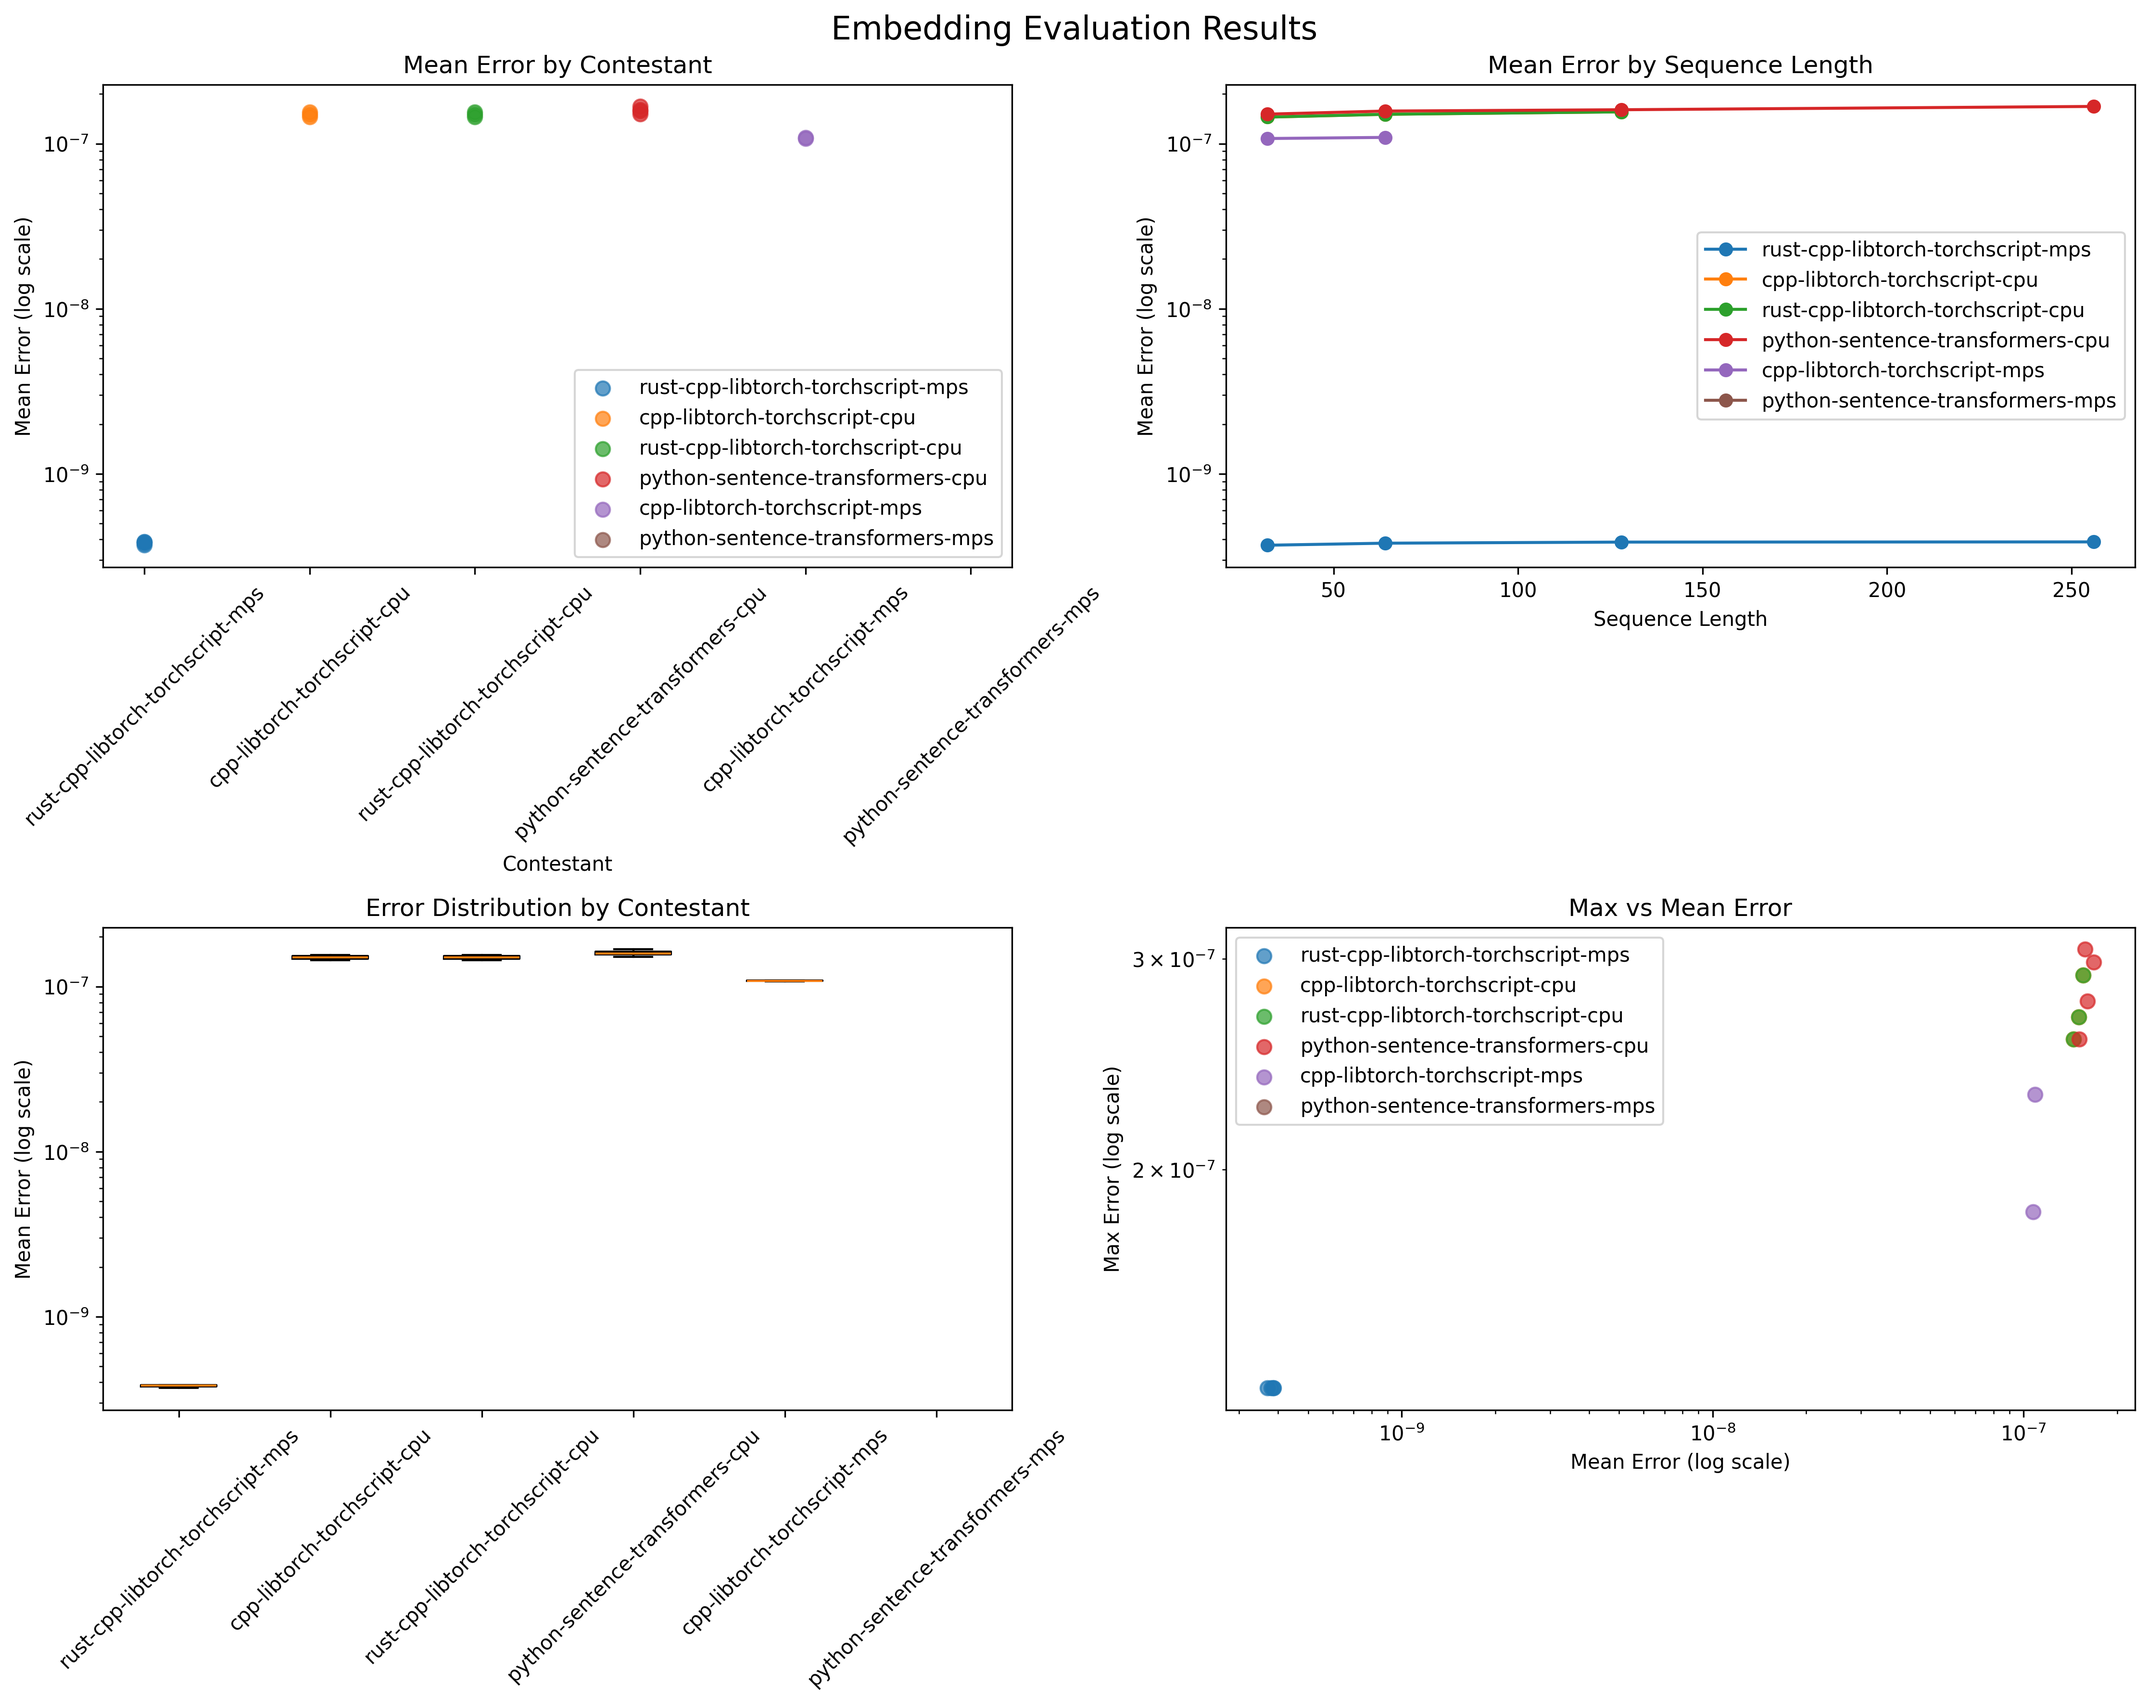
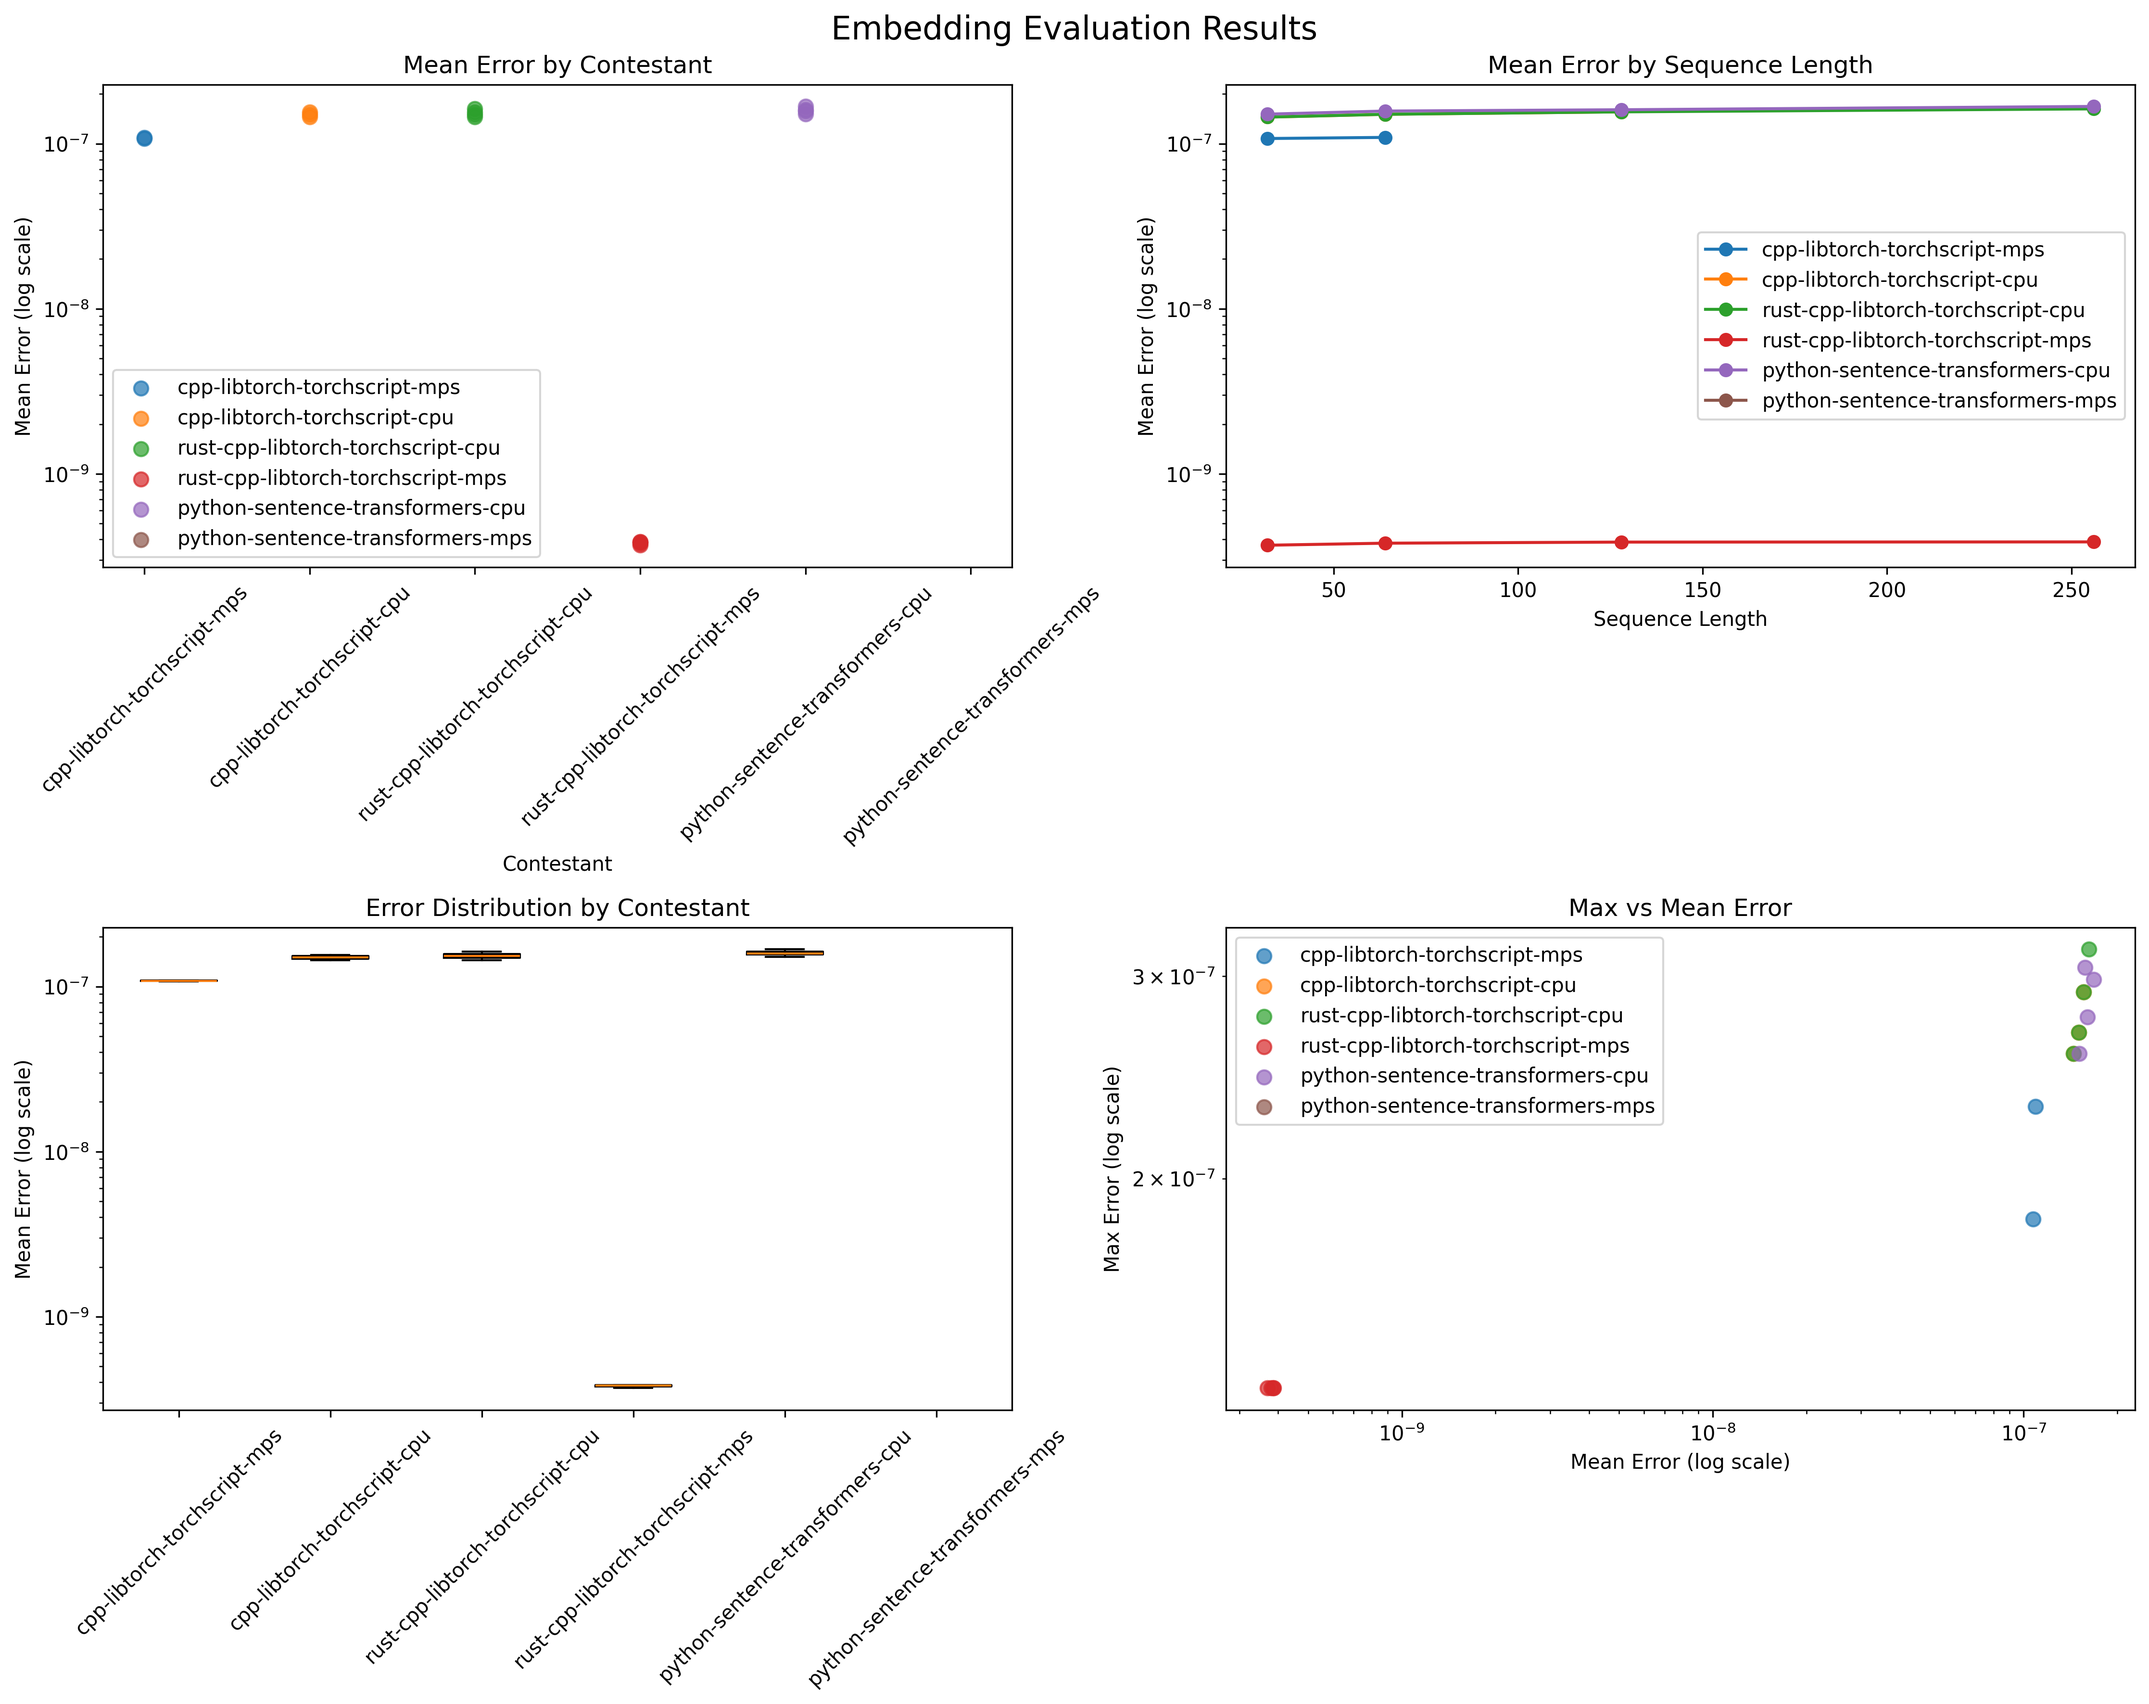
trying to debug bad cpu performance

diff --git a/contestants/rust-cpp-libtorch-torchscript/cpp-wrapper/embedder_wrapper.cpp b/contestants/rust-cpp-libtorch-torchscript/cpp-wrapper/embedder_wrapper.cpp
@@ -33,6 +33,7 @@ void* embedder_load_model(const char* model_path, int use_mps) {
 
     try {
         wrapper->model = torch::jit::load(model_path, device_);
+        wrapper->model = torch::jit::optimize_for_inference(wrapper->model);
         wrapper->model.eval();
         std::cerr << "Model loaded successfully\n";
 
@@ -78,7 +79,14 @@ int embedder_embed(void* model_handle, const int64_t* input_ids, const int64_t* 
         std::vector<torch::Tensor> output_batches;
         int embedding_dim = -1;
 
-        torch::NoGradGuard no_grad;
+        torch::InferenceMode guard;
+        std::cerr << "Num threads: " << torch::get_num_threads() << "\n";
+        std::cerr << "Num interop threads: " << torch::get_num_interop_threads() << "\n";
+        std::cerr << "MKL: " << torch::hasMKL() << "\n";
+        std::cerr << "OpenMP: " << torch::hasOpenMP() << "\n";
+        std::cerr << "XLA: " << torch::hasXLA() << "\n";
+
+        std::cerr << "BLAS backend: " << torch::utils::get_blas_vendor() << std::endl;
 
         for (int start_idx = 0; start_idx < total_samples; start_idx += processing_batch_size) {
             int current_batch_size = std::min(processing_batch_size, total_samples - start_idx);
@@ -99,7 +107,13 @@ int embedder_embed(void* model_handle, const int64_t* input_ids, const int64_t* 
             std::vector<torch::jit::IValue> inputs;
             inputs.push_back(input_dict);
 
+            auto start = std::chrono::high_resolution_clock::now();
             auto output = wrapper->model.forward(inputs);
+            auto end = std::chrono::high_resolution_clock::now();
+            std::cerr << "Forward pass took: "
+                      << std::chrono::duration<float, std::milli>(end - start).count() << " ms\n";
+
+            // auto output = wrapper->model.forward(inputs);
 
             torch::Tensor embeddings;
             if (output.isGenericDict()) {
@@ -123,7 +137,7 @@ int embedder_embed(void* model_handle, const int64_t* input_ids, const int64_t* 
         }
 
         std::cerr << "Concatenating output batches\n";
-        torch::Tensor final_embeddings = torch::cat(output_batches, 0).cpu().contiguous();
+        torch::Tensor final_embeddings = torch::cat(output_batches, 0).cpu();
 
         std::cerr << "Copying output into provided buffer\n";
         size_t num_elements = final_embeddings.numel();

diff --git a/contestants/python-sentence-transformers/main.py b/contestants/python-sentence-transformers/main.py
@@ -2,6 +2,7 @@ import os
 from pathlib import Path
 import subprocess
 from sentence_transformers import SentenceTransformer
+import torch
 import numpy as np
 import argparse
 from typing import List
@@ -18,7 +19,9 @@ def embed(
 ) -> np.ndarray:
     model.max_seq_length = max_seq_length  # type:ignore
     print(f"max seq len is {model.max_seq_length}")
-    embeddings = model.encode(sentences, batch_size=batch_size, show_progress_bar=True)
+    embeddings = model.encode(
+        sentences, batch_size=batch_size, show_progress_bar=True, device=device
+    )
     return embeddings
 
 
@@ -50,6 +53,16 @@ def main():
     if args.num_runs < 1:
         raise ValueError(f"num runs must be at least 1, given {args.num_runs}")
 
+    print(
+        f"Benchmarking {args.model} on {args.device}, seq len {args.max_seq_length}, batch size {args.batch_size}"
+    )
+
+    print("MKL:", torch.backends.mkl.is_available())
+    print("OpenMP:", torch.backends.openmp.is_available())
+    print(
+        f"Threads: {torch.get_num_threads()}, interop threads: {torch.get_num_interop_threads()}"
+    )
+
     start_total = time.time()
     model = SentenceTransformer(args.model, device=args.device)
 
@@ -65,6 +78,7 @@ def main():
     embeddings = None
 
     for i in range(args.num_runs):
+        print(f"Run {i + 1} of {args.num_runs}")
         start_run = time.time()
         embeddings = embed(
             model,
